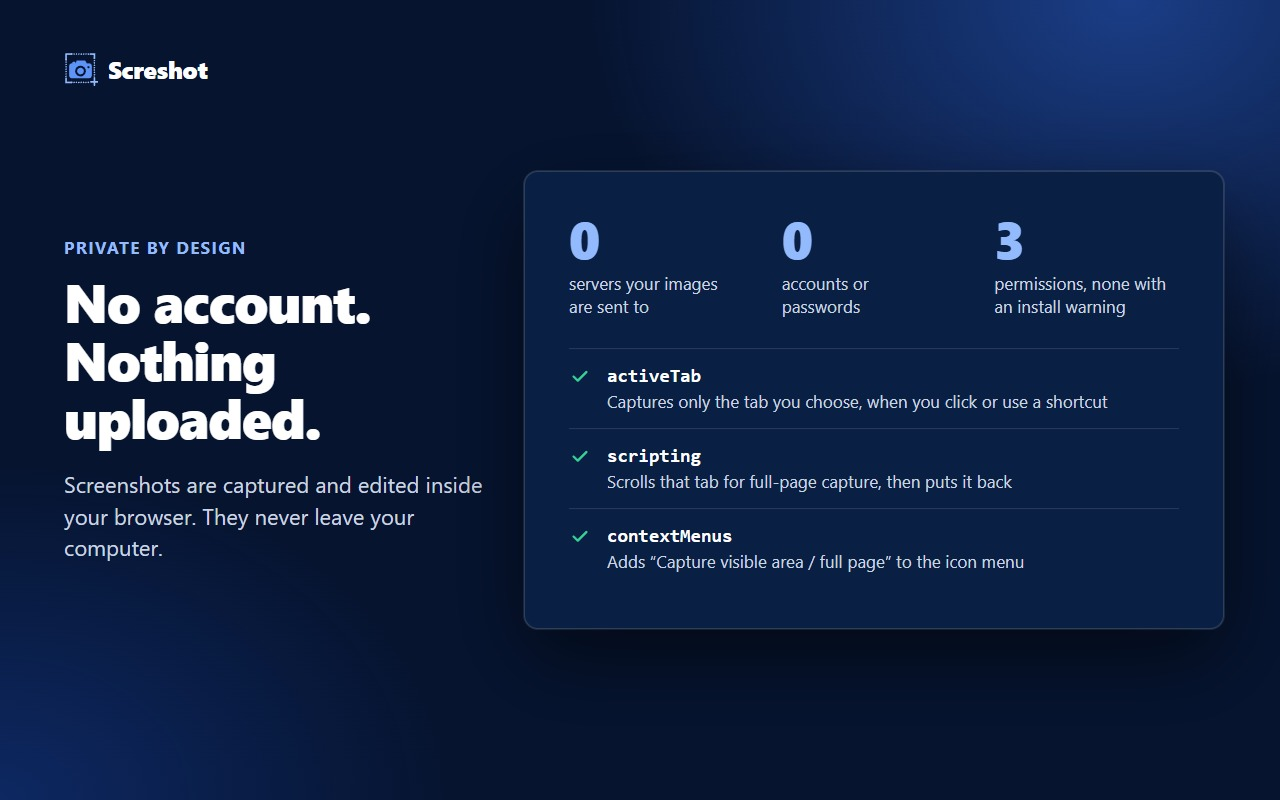
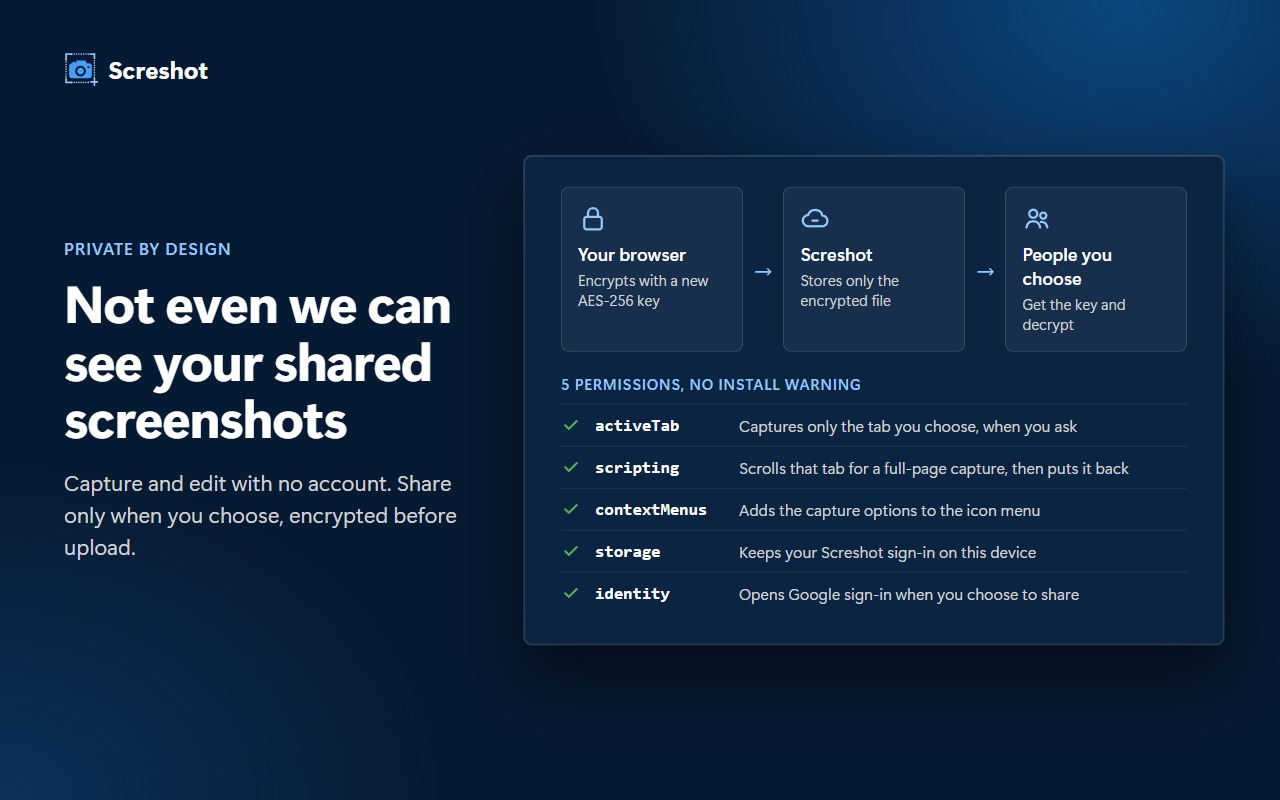
bumb to 2.1.0

diff --git a/store-assets/listing.md b/store-assets/listing.md
@@ -2,38 +2,45 @@
 
 Paste these into the Developer Dashboard → Store listing. The name and short description come from `extension/manifest.json`.
 
-## Name (66/75)
-Screshot – Screenshot Tool with Annotate, Blur & Full Page Capture
+## Name (74/75)
+Screshot – Private Screenshot Tool with Blur, Annotate & Full Page Capture
 
-## Short description (103/132)
-Free screenshot tool: capture area or visible tab, annotate with text, arrows & blur. Plus full page capture. No sign-up.
+## Short description (124/132)
+Private screenshot tool: capture area or full page, blur & annotate on your device. Share only by end-to-end encrypted link.
 
 ## Detailed description
 
 Plain text only: the Chrome Web Store does not render Markdown, so no ** or # in this field.
 
 ```
-Screshot – screenshot, annotate and blur in one click
+Screshot – the private screenshot tool for Chrome
 
-Capture the visible part of a page or the entire page, mark it up, hide anything private, and paste it where it needs to go. Everything happens inside your browser: no account, no uploads.
+Your screenshots stay yours. Capture the visible part of a page or the entire page, blur anything sensitive and mark it up, all inside your browser: no account, no upload, no tracking. When you do want a link, the screenshot is end-to-end encrypted on your computer before it leaves, so only the people you choose can open it. Not even Screshot can see it.
 
 NEW IN THIS VERSION
-• Full-page capture: right-click the Screshot icon in the toolbar and choose "Capture full page", or press Alt+Shift+S. Screshot scrolls the page for you, stitches it into one image and opens it in its own tab, ready to copy or download. Sticky headers appear only once.
-• Blur tool: drag over emails, names, API keys or card numbers to hide them before you share. Blurred areas cannot be recovered from the exported image.
+• Share by link, end-to-end encrypted: click Share in the editor and Screshot encrypts the screenshot on your computer, uploads only the encrypted file and copies the link. Our servers never have the key.
+• You choose who can view: Only me (the default for every new link), Invited people (by email) or Anyone with the link. Change it at any time without uploading again. Remove someone and the link stops working for them.
+• Sign in with Google, once. Signing in on the extension or on screshot.com signs you in on both, and signing out of either signs out of both.
+• Unlock with a passkey (fingerprint, face or device PIN) or your personal recovery code. No passwords.
+• Your dashboard on screshot.com: see every screenshot you've shared, rename, change who can view, restore from the trash or delete forever.
+• Redesigned interface in a clean Fluent style: a compact toolbar, a Share panel that opens right under the Share button, clear progress while encrypting and uploading, and one place for notifications.
+• Full-page captures can be shared too, straight from the full-page viewer.
 
 HOW IT WORKS
 1. Click the Screshot icon or press Ctrl+Shift+S.
 2. Drag to keep only the area you need, or double-click to keep the whole capture.
-3. Annotate and blur, then copy to the clipboard or download a PNG.
+3. Annotate and blur.
+4. Copy to the clipboard, download a PNG, or click Share for an encrypted link.
 
 FEATURES
 • Capture the visible area in one click, or a full scrolling page
 • Crop to exactly the region you need
 • Arrows, lines, rectangles, ellipses, pencil, highlighter and text, in any color
-• Blur to hide sensitive information
+• Blur to hide emails, names, API keys or card numbers. Blurred areas cannot be recovered.
 • Unlimited undo and redo
 • Copy to the clipboard and paste into Slack, Teams, Jira, GitHub, Gmail or Google Docs
 • Download as PNG
+• Share by end-to-end encrypted link, with 1 GB of encrypted storage free per account
 • Sharp at full resolution on any display and zoom level
 
 KEYBOARD SHORTCUTS
@@ -49,16 +56,21 @@ Editor (Mac: Control+Option instead of Ctrl+Alt)
 • Ctrl+Z / Ctrl+Y undo and redo · Ctrl+C copy · Ctrl+S download · Esc close
 
 PRIVATE BY DESIGN
-• No account, no sign-up and no tracking inside the extension
-• The extension makes no network requests. Screenshots leave your computer only when you copy or download them.
-• Three permissions, none with an install warning:
+• No account needed to capture, blur, copy or download. Sign in only if you want to share.
+• Nothing leaves your computer unless you click Share, and then only that one screenshot, encrypted.
+• Each shared screenshot gets its own AES-256 key. The key goes only to you, the people you invite, or inside the link itself (after the #, a part browsers never send to a server).
+• No tracking or analytics inside the extension. No selling data, no ads, no training AI on your screenshots.
+• Five permissions, none with an install warning:
   – activeTab: captures only the tab you choose, when you ask
   – scripting: scrolls that tab during a full-page capture, then restores it
   – contextMenus: adds the capture options to the icon's right-click menu
+  – storage: keeps your Screshot sign-in on this device
+  – identity: opens Google sign-in when you choose to share
+How the encryption works: https://www.screshot.com/security#encryption
 
 FOR TEAMS AND IT
-Deploy Screshot to every Chrome browser in your organization with the Google Admin console, Microsoft Intune or Group Policy. No accounts or licenses to manage.
-Deployment guide: https://www.screshot.com/enterprise
+Deploy Screshot to every Chrome browser in your organization with the Google Admin console, Microsoft Intune or Group Policy. Capture and blur need no accounts or licenses, and sharing is opt-in for each person.
+Deployment guide and security review pack: https://www.screshot.com/enterprise
 
 BUILT FOR
 Developers filing bug reports, QA engineers, designers giving feedback, support teams explaining steps, and anyone who needs to show, not tell.
@@ -66,9 +78,34 @@ Developers filing bug reports, QA engineers, designers giving feedback, support 
 Questions or ideas: https://www.screshot.com/contact
 ```
 
-## Screenshots (1280×800, big text, one message each)
-1. "Full page screenshot in one shortcut" (stitched long page in the editor)
-2. "Blur private info before you share" (email/token blurred)
-3. "Arrows, boxes and text in seconds" (annotated bug report)
-4. "Copy → paste into Slack, Jira, Gmail" (clipboard toast + paste target)
-5. "No account. Nothing uploaded." (permissions list on a clean background)
+## Privacy practices tab
+
+Single purpose:
+```
+Capture, annotate and blur screenshots of web pages, and optionally share them by end-to-end encrypted link.
+```
+
+Permission justifications:
+- activeTab: `Captures the tab the user chooses, only when they click the icon, use the shortcut or the context menu.`
+- scripting: `During a full-page capture, scrolls the active tab to capture each part, then restores the original scroll position.`
+- contextMenus: `Adds "Capture visible area" and "Capture full page" to the toolbar icon's right-click menu.`
+- storage: `Stores the user's Screshot sign-in token on the device so they stay signed in for sharing.`
+- identity: `Opens Google sign-in (chrome.identity.launchWebAuthFlow) when the user chooses to share a screenshot.`
+- Remote code: `No, I am not using remote code.`
+
+Data usage (tick what applies, because sharing is now live):
+- Personally identifiable information: yes (email address and name from Google sign-in, invited email addresses)
+- Authentication information: yes (sign-in token)
+- Website content: yes (screenshots the user chooses to share, uploaded end-to-end encrypted)
+- Everything else (health, financial, location, web history, user activity, personal communications): no
+- Certify all three: not sold to third parties; not used for unrelated purposes; not used for creditworthiness or lending.
+
+Privacy policy URL: https://www.screshot.com/privacy
+
+## Screenshots (1280×800 JPEG, max 5, upload in this order)
+Files in `store-assets/screenshots/`, generated from real captures of the current build:
+1. `01-share-encrypted.jpg`: "Share a link nobody else can read" (the Share panel: Only me / Invited people / Anyone with the link)
+2. `02-full-page.jpg`: "Full page screenshot in one shortcut" (capture in progress + the stitched result)
+3. `03-blur.jpg`: "Blur private info before you share" (email and card blurred)
+4. `04-annotate-paste.jpg`: "Point at the problem, paste it anywhere" (annotated ticket pasted into a chat)
+5. `05-private.jpg`: "Not even we can see your shared screenshots" (encryption flow + the 5 permissions)
